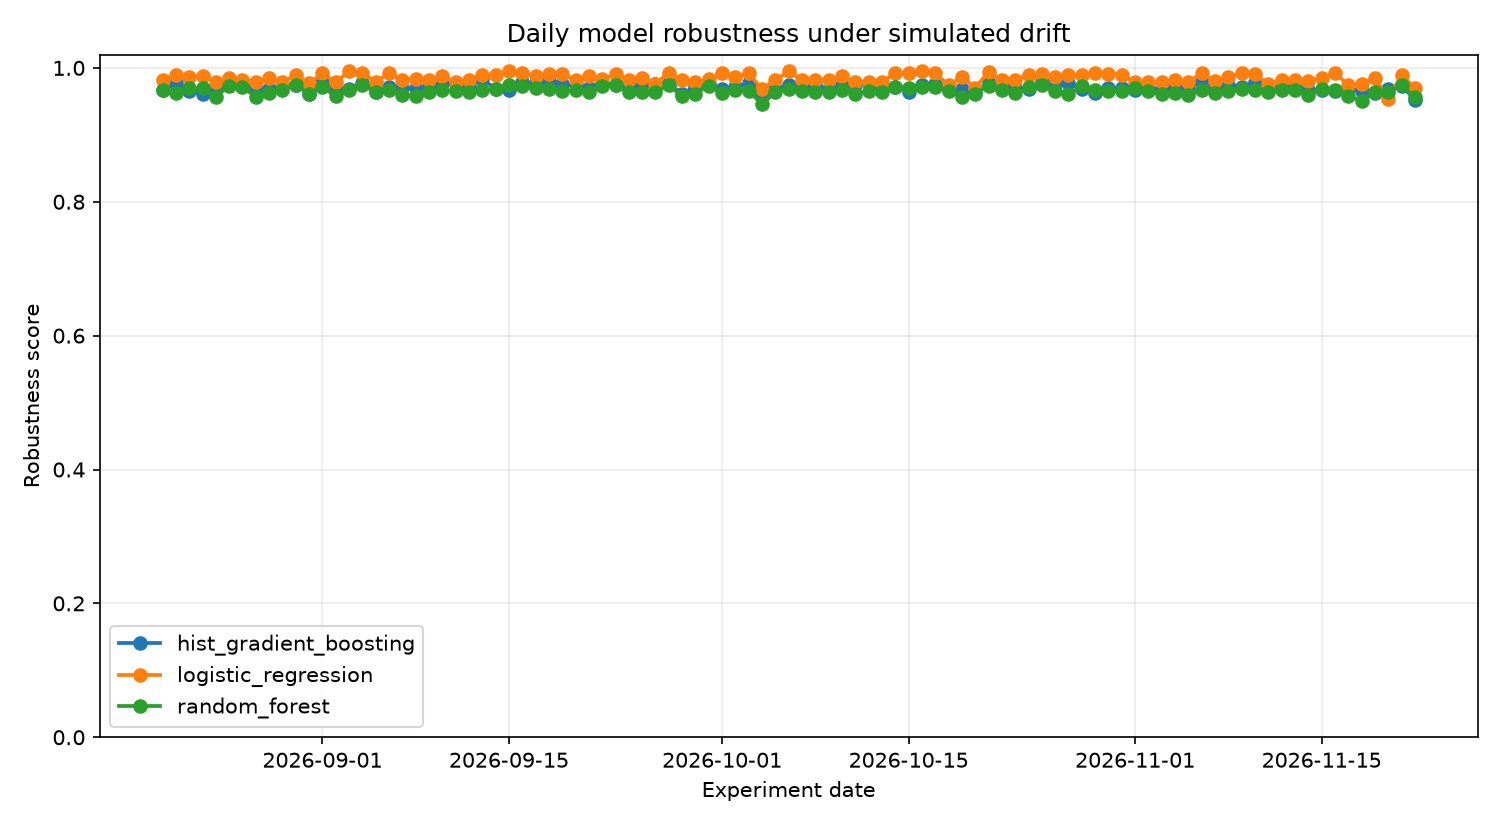
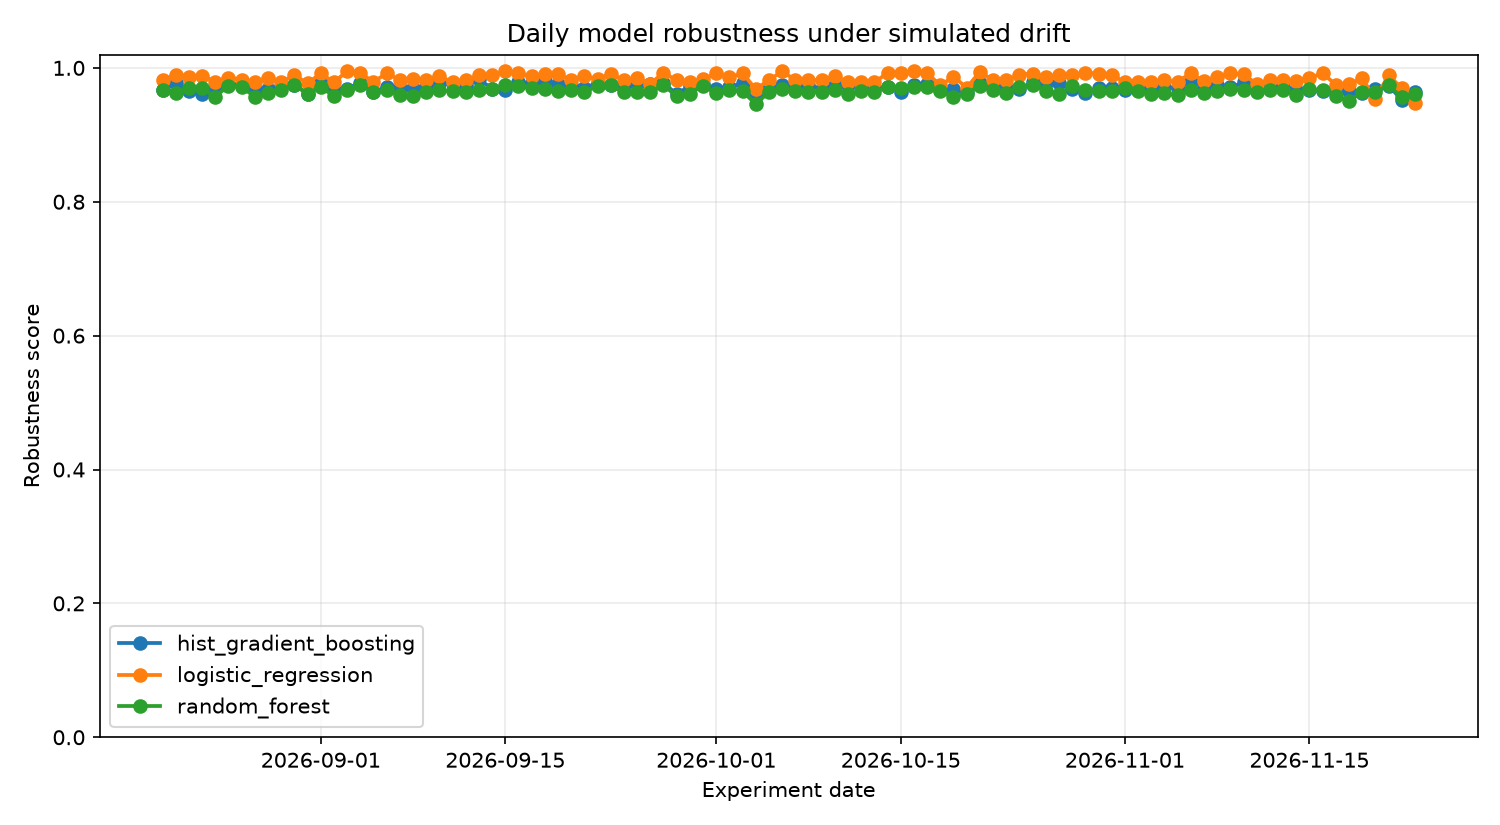
chore(observatory): daily drift benchmark 2026-11-23

diff --git a/reports/latest.md b/reports/latest.md
@@ -1,37 +1,37 @@
 # Latest DriftWatch Report
 
-**Experiment date:** 2026-11-22
+**Experiment date:** 2026-11-23
 
 ## Drift scenario
 
-- Drift strength: `0.549`
-- Scale factor: `1.055`
-- Noise ratio: `0.091`
+- Drift strength: `0.557`
+- Scale factor: `1.056`
+- Noise ratio: `0.092`
 - Mask ratio: `0.024`
-- Affected features: mean fractal dimension, texture error, perimeter error, concave points error, worst texture, worst area, worst compactness, worst concave points
+- Affected features: mean radius, mean texture, mean concavity, mean symmetry, area error, worst concave points, worst symmetry, worst fractal dimension
 
 ## Model ranking
 
 | Rank | Model | Robustness | ROC-AUC | F1 | Balanced Acc. | Log Loss | Brier |
 |---:|---|---:|---:|---:|---:|---:|---:|
-| 1 | `logistic_regression` | 0.9700 | 0.9972 | 0.9515 | 0.9501 | 0.1390 | 0.0439 |
-| 2 | `random_forest` | 0.9560 | 0.9908 | 0.9314 | 0.9283 | 0.1909 | 0.0544 |
-| 3 | `hist_gradient_boosting` | 0.9527 | 0.9895 | 0.9261 | 0.9236 | 0.2002 | 0.0564 |
+| 1 | `hist_gradient_boosting` | 0.9639 | 0.9917 | 0.9469 | 0.9423 | 0.1823 | 0.0526 |
+| 2 | `random_forest` | 0.9603 | 0.9886 | 0.9417 | 0.9376 | 0.1835 | 0.0520 |
+| 3 | `logistic_regression` | 0.9480 | 0.9971 | 0.9082 | 0.9159 | 0.1936 | 0.0647 |
 
 ## Highest feature drift (PSI)
 
 | Feature | PSI |
 |---|---:|
-| worst area | 1.6075 |
-| perimeter error | 0.6438 |
-| texture error | 0.5884 |
-| worst compactness | 0.5464 |
-| concave points error | 0.5405 |
-| mean fractal dimension | 0.3430 |
-| worst concave points | 0.3166 |
-| worst texture | 0.1947 |
+| area error | 3.9993 |
+| mean concavity | 2.8158 |
+| worst fractal dimension | 0.4599 |
+| mean symmetry | 0.3808 |
+| worst concave points | 0.3523 |
+| mean radius | 0.3336 |
+| mean texture | 0.2527 |
+| worst symmetry | 0.2478 |
 
-**Mean PSI:** `0.2211`  
-**Max PSI:** `1.6075`
+**Mean PSI:** `0.3555`  
+**Max PSI:** `3.9993`
 
 _Generated automatically by the DriftWatch daily observatory pipeline._
